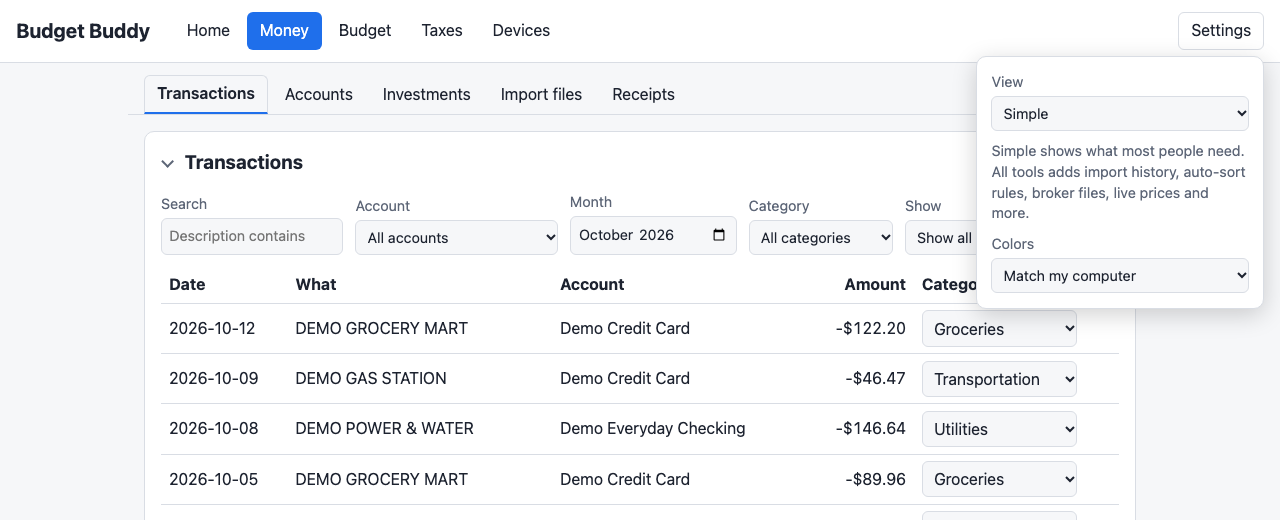
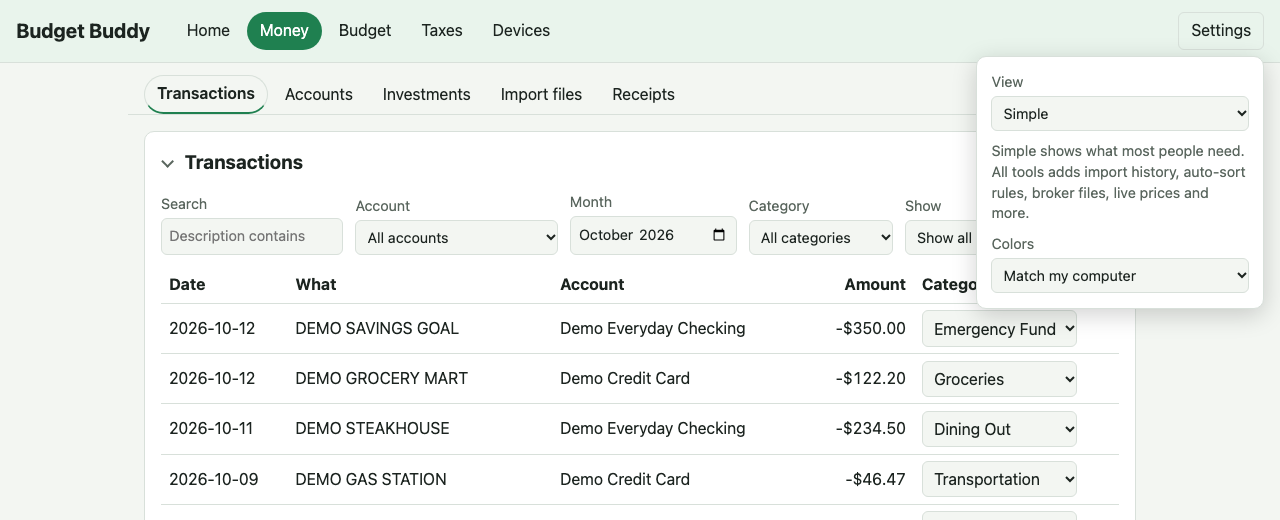
Budget graphics: spending ring and category progress rows
Inspired by green budget dashboards on Dribbble:
- The Spent tile shows a ring (charts/meter.js ring, the meter's round
  form) with what's left of the spending budget.
- Budget and actual by category is a list of progress rows
  (charts/progress-rows.js): name linking to its transactions, what's
  left or how far over (red), a thin meter, spent of budget. Savings read
  as goals (to go, extra, money taken out), never red.
- category-groups.budgetWords holds all the wording, tested: refunds
  bigger than spending, rounding down, and percentage budgets mid-month
  shown as 'so far' and never red when budgets follow income received.
- Warm gray for 'left over' in dark mode.
- Every showcase screenshot retaken in green.

finance-tax-expert reviewed; its five findings are fixed.

diff --git a/dashboard/js/screens/home-tiles.js b/dashboard/js/screens/home-tiles.js
@@ -5,18 +5,10 @@ import { h } from "../dom.js";
 import { formatCents } from "../money.js";
 import { sparkPoints } from "../charts/months.js";
 import { percentOf } from "../charts/shares.js";
+import { budgetWords } from "../category-groups.js";
+import { meter, ring } from "../charts/meter.js";
 import { s as svg } from "../charts/svg.js";
 import { card } from "../widgets.js";
-
-// A thin bar showing how much of something is used (0 to 1+); over 1 shows as full and "over". An SVG, since the
-// page's security rules don't allow inline styles.
-function meter(used, label) {
-  const share = Math.max(0, used);
-  return svg("svg", { class: `meter${share > 1 ? " over" : ""}`, viewBox: "0 0 100 6", preserveAspectRatio: "none",
-    role: "img", "aria-label": label },
-  svg("rect", { class: "meter-track", x: 0, y: 0, width: 100, height: 6, rx: 3 }),
-  share > 0 ? svg("rect", { class: "meter-fill", x: 0, y: 0, width: Math.min(1, share) * 100, height: 6, rx: 3 }) : null);
-}
 
 // A small line of the same number over the months before (at least two), drawn in the space of a line of text.
 function spark(values, label) {
@@ -33,21 +25,32 @@ function tile(label, value, extra, cls = "", trend = null) {
     trend, extra);
 }
 
-// s: the month's summary; months: the trend, oldest first, ending with this month (fromFirstActivity).
-export function monthTiles(s, months = []) {
+// The Spent tile's ring and words. Any percentage spending budget makes the total only "so far" while provisional.
+function spentRing(s, provisional) {
+  const percent = s.categories.some((c) => (c.group === "needs" || c.group === "wants") && c.budget_percent_bp !== null);
+  if (s.spending_budget_cents <= 0) {
+    return h("div", { class: "muted" }, provisional && percent ? "Budgets follow your pay as it comes in"
+      : "No spending budget set");
+  }
+  const w = budgetWords({ actual: s.spending_cents, budget: s.spending_budget_cents, percent_bp: percent ? 1 : null },
+    { provisional });
+  const shown = `${Math.floor(w.used * 100)}%`;
+  return h("div", { class: "ring-row" },
+    ring(w.used, `${shown} of the spending budget`, shown, w.alarm),
+    h("div", { class: "muted" }, `of ${formatCents(s.spending_budget_cents)}`, h("br"), w.right));
+}
+
+// s: the month's summary; months: the trend, oldest first, ending with this month (fromFirstActivity);
+// provisional: the month is going and percentage budgets follow the pay received so far (budgetWords).
+export function monthTiles(s, months = [], provisional = false) {
   const line = (pick, label) => spark(months.map(pick), label);
   const leftover = s.income_cents - s.spending_cents - s.saved_cents;
-  const spentShare = s.spending_budget_cents > 0 ? s.spending_cents / s.spending_budget_cents : null;
   const saveRate = percentOf(s.saved_cents, s.income_cents);
   return h("div", { class: "cards tiles" },
     tile("Money in", formatCents(s.income_cents),
       h("div", { class: "muted" }, "What everything below is measured against"), "",
       line((m) => m.income_cents, "Money in")),
-    tile("Spent", formatCents(s.spending_cents), spentShare === null
-      ? h("div", { class: "muted" }, "No spending budget set")
-      : h("div", {}, meter(spentShare, `${Math.round(spentShare * 100)}% of the spending budget`),
-          h("div", { class: "muted" }, `${Math.round(spentShare * 100)}% of ${formatCents(s.spending_budget_cents)} planned`)),
-      "", line((m) => m.spending_cents, "Spent")),
+    tile("Spent", formatCents(s.spending_cents), spentRing(s, provisional), "", line((m) => m.spending_cents, "Spent")),
     tile("Saved", formatCents(s.saved_cents), saveRate === null ? null
       : h("div", {}, meter(saveRate / 100, `${saveRate}% of income saved`),
           h("div", { class: "muted" }, `${saveRate}% of what came in`)),

diff --git a/dashboard/tests/category-groups.test.js b/dashboard/tests/category-groups.test.js
@@ -3,7 +3,7 @@
 import assert from "node:assert/strict";
 import test from "node:test";
 
-import { byGroup, overBadge, overBudget } from "../js/category-groups.js";
+import { budgetLeft, budgetWords, byGroup, overBadge, overBudget } from "../js/category-groups.js";
 
 const cat = (name, group, budget_cents = 0, budget_percent_bp = null) => ({ name, group, budget_cents, budget_percent_bp });
 
@@ -52,4 +52,45 @@ test("the over-budget badge never says +0%", () => {
   assert.equal(overBadge(0), "<1%");
   const [tiny] = overBudget([row(1, "Food", "needs", 10_000, 10_001)]);
   assert.equal(overBadge(tiny.over_percent), "<1%");
+});
+
+test("what's left of a budget, or how far over", () => {
+  assert.deepEqual(budgetLeft(21_200, 60_000), { state: "left", cents: 38_800 });
+  assert.deepEqual(budgetLeft(60_000, 60_000), { state: "left", cents: 0 });
+  assert.deepEqual(budgetLeft(23_450, 20_000), { state: "over", cents: 3_450 });
+  assert.deepEqual(budgetLeft(-2_399, 15_000), { state: "left", cents: 15_000 }); // refunds bigger than spending
+  assert.deepEqual(budgetLeft(4_000, 0), { state: "none", cents: 4_000 });
+  assert.deepEqual(budgetLeft(-500, 0), { state: "none", cents: 0 });
+});
+
+test("budget words: spending left and over", () => {
+  assert.deepEqual(budgetWords({ actual: 21_216, budget: 60_000 }),
+    { right: "$387.84 left", below: "$212.16 spent of $600.00", alarm: false, used: 0.3536 });
+  assert.deepEqual(budgetWords({ actual: 23_450, budget: 20_000 }),
+    { right: "$34.50 over", below: "$234.50 spent of $200.00", alarm: true, used: 1.1725 });
+  assert.deepEqual(budgetWords({ actual: 4_000, budget: 0 }),
+    { right: "No budget", below: "$40.00 spent", alarm: false, used: 0 });
+});
+
+test("budget words: refunds bigger than spending use nothing", () => {
+  assert.deepEqual(budgetWords({ actual: -2_399, budget: 15_000 }),
+    { right: "$150.00 left", below: "$0.00 spent of $150.00", alarm: false, used: 0 });
+});
+
+test("budget words: savings are goals, never alarming, and money taken out says so", () => {
+  assert.deepEqual(budgetWords({ actual: 35_000, budget: 30_000, saving: true }),
+    { right: "$50.00 extra", below: "$350.00 saved of $300.00", alarm: false, used: 1 });
+  assert.deepEqual(budgetWords({ actual: 0, budget: 20_000, saving: true }),
+    { right: "$200.00 to go", below: "$0.00 saved of $200.00", alarm: false, used: 0 });
+  assert.equal(budgetWords({ actual: -5_000, budget: 20_000, saving: true }).below, "$50.00 taken out");
+});
+
+test("budget words: a percentage budget mid-month is only so far", () => {
+  const row = { actual: 40_000, budget: 30_000, percent_bp: 1_500 };
+  assert.deepEqual(budgetWords(row, { provisional: true }),
+    { right: "$100.00 over so far", below: "$400.00 spent of $300.00 so far", alarm: false, used: 4 / 3 });
+  assert.equal(budgetWords(row).alarm, true);
+  assert.deepEqual(budgetWords({ actual: 4_000, budget: 0, percent_bp: 1_500 }, { provisional: true }),
+    { right: "15% of income", below: "$40.00 spent", alarm: false, used: 0 });
+  assert.equal(budgetWords({ actual: 1, budget: 100 }, { provisional: true }).right, "$0.99 left"); // amounts aren't "so far"
 });

diff --git a/dashboard/js/screens/home.js b/dashboard/js/screens/home.js
@@ -72,6 +72,8 @@ export async function render(root, options) {
     listImports(),
   ]);
   const months = fromFirstActivity(trend.months);
+  // Mid-month, a percentage of the income received so far isn't the month's budget yet.
+  const provisional = Boolean(days.through) && summary.budget_income_source === "actual";
   const picker = h("input", { type: "month", value: summary.month, "aria-label": "Month" });
   picker.addEventListener("change", () => { if (picker.value) reload({ month: picker.value }); });
   const mismatched = positions.accounts.flatMap((a) => a.positions).filter((p) => !p.matches).length;
@@ -83,7 +85,7 @@ export async function render(root, options) {
       budgets: summary.categories.some((c) => c.group !== "income" && c.budget_cents > 0) }),
     h("div", { class: "toolbar" }, h("h2", {}, "Your month"), h("label", {}, "Month", picker), freshness(imports)),
     // While the month is going, its own point would dip (a part month): the tiles' lines show the months before it.
-    monthTiles(summary, days.through ? months.slice(0, -1) : months),
+    monthTiles(summary, days.through ? months.slice(0, -1) : months, provisional),
     hasTransactions && attentionCard([
       { count: waiting.total, href: "#transactions?sorted=none",
         text: waiting.total === 1 ? "transaction needs a category" : "transactions need a category" },
@@ -91,8 +93,7 @@ export async function render(root, options) {
         text: deposits.length === 1 ? "pay deposit to fill in on Paychecks" : "pay deposits to fill in on Paychecks" },
       { count: mismatched, href: "#investments", text: mismatched === 1
         ? "position doesn't match your recorded trades" : "positions don't match your recorded trades" },
-      // Mid-month, a percentage of the income received so far isn't the month's budget yet.
-      ...overBudget(summary.categories, { skipPercent: Boolean(days.through) && summary.budget_income_source === "actual" })
+      ...overBudget(summary.categories, { skipPercent: provisional })
         .map((c) => ({
           count: 1, badge: overBadge(c.over_percent),
           href: `#transactions?category=${c.category_id}&month=${summary.month}`,
@@ -102,7 +103,7 @@ export async function render(root, options) {
     hasTransactions && [
       incomeSplitCard(summary),
       groupsChart(summary),
-      categoriesChart(summary, budgetTable(summary)),
+      categoriesChart(summary, budgetTable(summary), provisional),
       changesChart(soFar || summary, before, days),
       trendChart(months),
       balancesCard(accounts, held.accounts.length ? held.value_cents : null),

diff --git a/dashboard/js/category-groups.js b/dashboard/js/category-groups.js
@@ -1,3 +1,6 @@
+import { formatCents } from "./money.js";
+import { formatBp } from "./percent.js";
+
 // Categories sorted into their groups (needs, wants, savings, income, then transfer), each with how many it has and
 // what its monthly budgets add up to: amounts and percentages kept apart, since a percentage depends on income.
 
@@ -32,3 +35,33 @@ export function overBudget(categories, { skipPercent = false } = {}) {
 
 // The badge for how far over: "+17%", or "<1%" when it rounds down to nothing.
 export const overBadge = (percent) => (percent > 0 ? `+${percent}%` : "<1%");
+
+// What's left of a month's budget for a category: { state: "left" | "over" | "none", cents }. Refunds bigger than
+// the spending leave the whole budget; with no budget, cents is what was spent.
+export function budgetLeft(actual, budget) {
+  const spent = Math.max(0, actual);
+  if (budget <= 0) return { state: "none", cents: spent };
+  return spent > budget ? { state: "over", cents: spent - budget } : { state: "left", cents: budget - spent };
+}
+
+// The words around a budget's meter or ring: { right, below, alarm, used }.
+// row: { actual, budget, saving?, percent_bp? } in cents. saving reads as a goal ("to go", "extra", never alarming,
+// and money taken out says so). provisional: the month is still going and percentage budgets follow the pay received
+// so far, so a percentage budget is only "so far" and never alarming (percent_bp marks one).
+// used: the share to draw (0 or more), rounded down when shown as a percentage elsewhere.
+export function budgetWords(row, { provisional = false } = {}) {
+  const { actual, budget, saving = false, percent_bp: bp = null } = row;
+  const soFar = provisional && bp !== null;
+  const tail = soFar ? " so far" : "";
+  const used = budget > 0 ? Math.max(0, actual) / budget : 0;
+  const did = saving ? "saved" : "spent";
+  const below = saving && actual < 0 ? `${formatCents(-actual)} taken out`
+    : `${formatCents(Math.max(0, actual))} ${did}${budget > 0 ? ` of ${formatCents(budget)}${tail}` : ""}`;
+  if (budget <= 0) {
+    return { right: soFar ? `${formatBp(bp)} of income` : "No budget", below, alarm: false, used };
+  }
+  const left = budgetLeft(actual, budget);
+  const words = saving ? { left: "to go", over: "extra" } : { left: "left", over: "over" };
+  return { right: `${formatCents(left.cents)} ${words[left.state]}${tail}`, below,
+    alarm: left.state === "over" && !saving && !soFar, used: saving ? Math.min(1, used) : used };
+}

diff --git a/dashboard/app.css b/dashboard/app.css
@@ -134,6 +134,19 @@ img.thumb { display: block; width: 4.5rem; height: 4.5rem; object-fit: cover; bo
 .tile.good-tile .big { color: var(--good); } .tile.bad-tile .big { color: var(--bad); }
 .spark { display: block; width: 100%; height: 1.5rem; overflow: visible; }
 .spark polyline { fill: none; stroke: var(--series); stroke-width: 2; stroke-linejoin: round; stroke-linecap: round; }
+/* Home's spending ring (js/charts/meter.js) beside its words, and the categories as progress rows. */
+.ring-row { display: flex; align-items: center; gap: 0.75rem; }
+.ring { flex: none; width: 3.75rem; height: 3.75rem; }
+.ring .ring-track { fill: none; stroke: var(--accent-soft); stroke-width: 8; }
+.ring .ring-fill { fill: none; stroke: var(--accent); stroke-width: 8; stroke-linecap: round; }
+.ring.over .ring-fill { stroke: var(--bad); }
+.ring text { fill: var(--text); font-size: 15px; font-weight: 600; }
+ul.progress-rows { list-style: none; margin: 0; padding: 0; display: grid; gap: 1rem 2rem;
+  grid-template-columns: repeat(auto-fit, minmax(16rem, 1fr)); }
+ul.progress-rows li { display: grid; gap: 0.35rem; }
+.progress-head { display: flex; justify-content: space-between; gap: 1rem; font-weight: 600; }
+.progress-head a { color: var(--text); text-decoration: none; }
+.progress-head a:hover { text-decoration: underline; }
 .meter { display: block; width: 100%; height: 6px; }
 .meter .meter-track { fill: var(--accent-soft); }
 .meter .meter-fill { fill: var(--accent); }
@@ -148,7 +161,7 @@ ol.steps .step-mark { flex: none; min-width: 3.5rem; text-align: center; font-si
   padding: 0.1rem 0.4rem; border-radius: 999px; background: var(--warn-bg); }
 ol.steps li.done { color: var(--muted); }
 ol.steps li.done .step-mark { background: none; color: var(--good); border: 1px solid var(--good); }
-.leftover { --series: light-dark(#c3c8d1, #4a5262); }
+.leftover { --series: light-dark(#c6cec8, #4f4e47); }
 .legend { display: flex; flex-wrap: wrap; gap: 0.25rem 1rem; font-size: 0.9rem; margin-bottom: 0.5rem; }
 .legend .swatch { display: inline-block; width: 10px; height: 10px; border-radius: 2px; margin-right: 0.35rem;
   background: var(--series); }

diff --git a/dashboard/js/screens/home-charts.js b/dashboard/js/screens/home-charts.js
@@ -2,6 +2,7 @@
 // last month, and money in, spending and saving month by month. Each can switch to a table.
 
 import { budgetBars } from "../charts/budget-bars.js";
+import { progressRows } from "../charts/progress-rows.js";
 import { changeBars, changeText } from "../charts/change-bars.js";
 import { chartCard } from "../charts/chart-card.js";
 import { lineChart } from "../charts/line-chart.js";
@@ -27,14 +28,15 @@ export function groupsChart(summary) {
   });
 }
 
-export function categoriesChart(summary, budgetTable) {
+// provisional: the month is going and percentage budgets follow the pay received so far (category-groups budgetWords).
+export function categoriesChart(summary, budgetTable, provisional = false) {
   const rows = summary.categories
     .filter((c) => c.group !== "income" && (c.budget_cents > 0 || c.actual_cents !== 0))
-    .map((c) => ({ label: c.name, actual: c.actual_cents, budget: c.budget_cents,
+    .map((c) => ({ label: c.name, actual: c.actual_cents, budget: c.budget_cents, saving: c.group === "savings",
+      percent_bp: c.budget_percent_bp,
       href: `#transactions?category=${c.category_id}&month=${summary.month}` }));
   return chartCard("Budget and actual by category", {
-    chart: rows.length ? budgetBars(rows, "Spent in each category this month, with its budget marked")
-      : empty("Nothing spent or budgeted yet this month."),
+    chart: rows.length ? progressRows(rows, { provisional }) : empty("Nothing spent or budgeted yet this month."),
     table: budgetTable,
     note: empty("Click a category to see its transactions."),
   });

diff --git a/dashboard/js/charts/meter.js b/dashboard/js/charts/meter.js
@@ -1,0 +1,26 @@
+// One number against a limit: a thin bar (meter) or a ring. The filled part is the theme green, red once past the
+// limit; the unfilled part is a lighter step of the same green. SVG, since the page's security rules don't allow
+// inline styles. used: 0 to 1 (more shows as full); alarm: show it red (by default, once past the limit).
+
+import { s } from "./svg.js";
+
+export function meter(used, label, alarm = used > 1) {
+  const share = Math.max(0, used);
+  return s("svg", { class: `meter${alarm ? " over" : ""}`, viewBox: "0 0 100 6", preserveAspectRatio: "none",
+    role: "img", "aria-label": label },
+  s("rect", { class: "meter-track", x: 0, y: 0, width: 100, height: 6, rx: 3 }),
+  share > 0 ? s("rect", { class: "meter-fill", x: 0, y: 0, width: Math.min(1, share) * 100, height: 6, rx: 3 }) : null);
+}
+
+const R = 26;
+const AROUND = 2 * Math.PI * R;
+
+// A ring that fills clockwise from the top, with `middle` (a short text, like "57%") in its center.
+export function ring(used, label, middle, alarm = used > 1) {
+  const share = Math.max(0, used);
+  return s("svg", { class: `ring${alarm ? " over" : ""}`, viewBox: "0 0 64 64", role: "img", "aria-label": label },
+    s("circle", { class: "ring-track", cx: 32, cy: 32, r: R }),
+    share > 0 ? s("circle", { class: "ring-fill", cx: 32, cy: 32, r: R, transform: "rotate(-90 32 32)",
+      "stroke-dasharray": `${(Math.min(1, share) * AROUND).toFixed(2)} ${AROUND.toFixed(2)}` }) : null,
+    s("text", { x: 32, y: 36.5, "text-anchor": "middle" }, middle));
+}

diff --git a/dashboard/js/charts/progress-rows.js b/dashboard/js/charts/progress-rows.js
@@ -1,0 +1,19 @@
+// Spending against budget as a list (the categories chart on Home): each category's name (a link to its
+// transactions), what's left or how far over in words, a thin meter, and what was spent of the budget. Savings read
+// as goals; a percentage budget mid-month is only "so far" (category-groups.js budgetWords has the wording).
+// rows: [{ label, actual, budget, href, saving?, percent_bp? }] in cents. provisional: see budgetWords.
+
+import { budgetWords } from "../category-groups.js";
+import { h } from "../dom.js";
+import { meter } from "./meter.js";
+
+export function progressRows(rows, { provisional = false } = {}) {
+  return h("ul", { class: "progress-rows" }, rows.map((r) => {
+    const w = budgetWords(r, { provisional });
+    return h("li", {},
+      h("div", { class: "progress-head" }, h("a", { href: r.href }, r.label),
+        h("span", { class: w.alarm ? "bad" : null }, w.right)),
+      r.budget > 0 ? meter(w.used, `${r.label}: ${w.below}`, w.alarm) : null,
+      h("div", { class: "muted" }, w.below));
+  }));
+}

diff --git a/docs/showcase/overview.md b/docs/showcase/overview.md
@@ -30,14 +30,16 @@ does either. Your records sit on your computer, encrypted, and your phone joins 
 ![Home: money in, spent, saved and left over, with charts](images/home.png)
 
 Four numbers answer the questions people actually ask: *How much came in? How much did I spend? How much did I
-save? What's left?* A small line under each shows how it went over the past months. Below them, **Needs your
+save? What's left?* A ring shows how much of your spending budget is used, and a small line under each number
+shows how it went over the past months. Below them, **Needs your
 attention** lists anything waiting for you (like a payment with no category); one click takes you there.
 
-### See how this month compares
+### Every budget at a glance, and how this month compares
 
-![Home with most boxes folded, showing spending compared with last month and month by month](images/home-insights.png)
+![Home with most boxes folded, showing each category's budget and spending compared with last month](images/home-insights.png)
 
-**Compared with last month** shows, for each kind of spending, whether you spent more or less than last month,
+**Budget and actual by category** shows each category with a thin bar filling up as you spend and what's left
+(red when it's over; savings read as goals, like "$200.00 to go"). **Compared with last month** shows, for each kind of spending, whether you spent more or less than last month,
 counting the same days so a half-finished month isn't compared with a whole one. **Month by month** shows money in,
 spending and saving over time. Every box folds up to its title with one click (or **Fold all**), and Budget Buddy
 remembers what you folded, so the page shows what you care about.
@@ -61,8 +63,9 @@ broker files, live stock prices, transfer matching and more. Nothing is lost eit
 
 ![Home in dark mode](images/home-dark.png)
 
-Budget Buddy follows your computer's light or dark setting, or you can pick one in **Settings**. Both use the same
-colors, tuned for their background, so nothing changes meaning when you switch.
+Budget Buddy is green, and follows your computer's light or dark setting (or pick one in **Settings**): a faintly
+green page in light, warm charcoal in dark. Both use the same colors, tuned for their background, so nothing changes
+meaning when you switch, and the chart colors are checked for color blindness.
 
 ### Tax time without the shoebox
 

diff --git a/docs/guide/open-the-dashboard.md b/docs/guide/open-the-dashboard.md
@@ -23,8 +23,8 @@ after you connect them with a one-time code ([use Budget Buddy on another comput
 
 The **Home** page shows your month at a glance:
 
-- **Four tiles:** money in (what everything else is measured against), what you spent (with a bar for how much of
-  your spending budget that is), what you saved (and what share of your income), and what's left over. Once you
+- **Four tiles:** money in (what everything else is measured against), what you spent (with a ring for how much of
+  your spending budget that is, and what's left), what you saved (and what share of your income), and what's left over. Once you
   have two months, each tile also has a small line showing that number month by month (point at it for the
   amounts). While a month is still going, the line shows the months before it, since a part month would always
   look like a dip.
@@ -42,9 +42,11 @@ The **Home** page shows your month at a glance:
 
 It also has these charts:
 
-- **Needs, wants and savings** and **Budget and actual by category:** a bar for what you've spent this month,
-  and a short upright line where your budget is. If the bar goes past the line, you're over budget (the amount
-  on the right also says "over"). Click a category's bar to see its transactions for the month.
+- **Needs, wants and savings:** a bar for what you've spent this month, and a short upright line where your budget
+  is. If the bar goes past the line, you're over budget (the amount on the right also says "over").
+- **Budget and actual by category:** each category with a thin bar filling up as you spend, what's left (or how
+  much you're over, in red) and what you've spent of its budget. Savings categories read as goals: "$200.00 to go",
+  and saving more than planned says "extra". Click a category's name to see its transactions for the month.
 - **Compared with last month:** for each needs or wants category whose spending changed, a bar to the right if you
   spent more than last month and to the left if you spent less, with the amount in words. While the month is still
   going, it compares this month so far with the same days of last month (the 1st to the 13th against the 1st to

diff --git a/dashboard/README.md b/dashboard/README.md
@@ -51,7 +51,7 @@ All under `js/` (each file starts with a one-line purpose):
 | `dates.js` | Today, current month, month ranges |
 | `labels.js` | Plain-English names for account types, groups and so on; `everydayFirst()` orders accounts for pickers |
 | `percent.js` | Basis points to "15%" and back, "percent used" (string logic, no float maths) |
-| `charts/` | Charts drawn as SVG in code, no library: `scale.js` (axis maths, pure and tested), `svg.js` (safe SVG builder), `budget-bars.js` (spent against budget), `change-bars.js` (spending against last month), `months.js` (trend trimming, sparklines, which days to compare; pure and tested), `line-chart.js` + `hover.js` (months, with a hover guide), `chart-card.js` ("Show as table" switch and legend) |
+| `charts/` | Charts drawn as SVG in code, no library: `scale.js` (axis maths, pure and tested), `svg.js` (safe SVG builder), `budget-bars.js` (spent against budget), `progress-rows.js` (each category's left/over with a meter), `meter.js` (meter and ring), `change-bars.js` (spending against last month), `months.js` (trend trimming, sparklines, which days to compare; pure and tested), `line-chart.js` + `hover.js` (months, with a hover guide), `chart-card.js` ("Show as table" switch and legend) |
 | `prefs.js` | A remembered choice from a short list, shown as an attribute on `<html>` (pure, tested); used by `theme.js` and `view.js` |
 | `theme.js` | Light, dark or match the computer (`data-theme`). Colors live in `app.css` as `light-dark()` pairs, the same green theme in both (`--accent` fills, `--link` is text, `--accent-soft` for meter tracks) |
 | `view.js` | Simple view (default) or All tools (`data-view="all"`). `app.css` hides `.advanced` pieces in the simple view |

diff --git a/docs/dev/architecture/dashboard.md b/docs/dev/architecture/dashboard.md
@@ -92,8 +92,11 @@ wants categories over budget (`category-groups.js` `overBudget`, with the percen
 than "+0%"; percentage budgets are skipped while the month is going and budgets follow actual income, since a share of
 part of a month's pay isn't the month's budget), and the
 toolbar says when a file was last imported (`imports` list; its UTC `created_at` becomes a local date with
-`dates.localDate`). Category bars link to `#transactions?category=&month=` (an SVG `<a>` left out of the Tab order;
-the chart's table has the same links for keyboards and screen readers).
+`dates.localDate`). Budget and actual by category is a list of progress rows (`charts/progress-rows.js`: name linking to
+`#transactions?category=&month=`, "left"/"over" from `category-groups.budgetLeft`, a meter, "spent of"; savings read
+as goals, "to go"/"extra", never red), and the Spent tile has a ring (`charts/meter.js` `ring`, the meter's circular
+form: theme green on its lighter step, red once over). Group bars (`budget-bars.js`) still link per row when given
+an `href` (an SVG `<a>` left out of the Tab order).
 Their maths is in `charts/shares.js` and `charts/months.js`, covered 100% like `scale.js`. They are SVG built in code (`js/charts/`), with no chart library and nothing loaded from the internet, so
 the CSP and the safety tests are unchanged; the only web address in them is the SVG namespace in `js/charts/svg.js`,
 which the static test allows by exact match. Every chart has a "Show as table" switch and an `aria-label`. The
